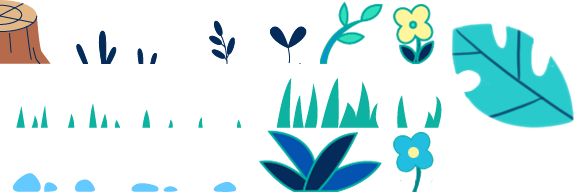
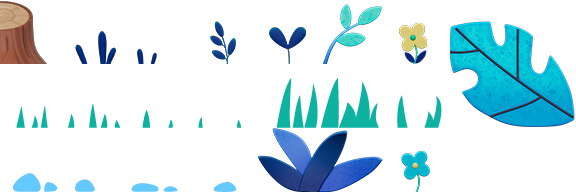
Add files via upload
replaced 2D with 3D assets in the jungle section and added jungle atmosphere tiles

diff --git a/assets/map/tiles/tile_forest_ground_v04.tsx b/assets/map/tiles/tile_forest_ground_v04.tsx
@@ -1,4 +1,93 @@
 <?xml version="1.0" encoding="UTF-8"?>
 <tileset version="1.10" tiledversion="1.10.2" name="tile_forest_ground_v04" tilewidth="64" tileheight="64" tilecount="132" columns="11">
  <image source="tile_forest_ground_v04.png" width="704" height="768"/>
+ <tile id="11" type="Platform">
+  <objectgroup draworder="index" id="2">
+   <object id="1" x="37" y="0" width="27" height="38"/>
+  </objectgroup>
+ </tile>
+ <tile id="12" type="Platform"/>
+ <tile id="13" type="Platform">
+  <objectgroup draworder="index" id="2">
+   <object id="1" x="0" y="0" width="28" height="38"/>
+  </objectgroup>
+ </tile>
+ <tile id="14" type="Platform"/>
+ <tile id="15" type="Platform"/>
+ <tile id="16" type="Platform"/>
+ <tile id="18" type="Slope">
+  <properties>
+   <property name="LeftTop" type="int" value="0"/>
+   <property name="RightTop" type="int" value="52"/>
+  </properties>
+ </tile>
+ <tile id="19" type="Slope">
+  <properties>
+   <property name="LeftTop" type="int" value="52"/>
+   <property name="RightTop" type="int" value="64"/>
+  </properties>
+ </tile>
+ <tile id="20" type="Slope">
+  <properties>
+   <property name="LeftTop" type="int" value="64"/>
+   <property name="RightTop" type="int" value="0"/>
+  </properties>
+ </tile>
+ <tile id="33" type="Platform"/>
+ <tile id="34" type="Platform"/>
+ <tile id="35" type="Platform"/>
+ <tile id="36" type="Platform"/>
+ <tile id="37" type="Platform"/>
+ <tile id="38" type="Platform"/>
+ <tile id="41" type="Slope">
+  <properties>
+   <property name="LeftTop" type="int" value="0"/>
+   <property name="RightTop" type="int" value="52"/>
+  </properties>
+ </tile>
+ <tile id="42" type="Slope">
+  <properties>
+   <property name="LeftTop" type="int" value="52"/>
+   <property name="RightTop" type="int" value="64"/>
+  </properties>
+ </tile>
+ <tile id="43" type="Platform"/>
+ <tile id="51" type="Slope">
+  <properties>
+   <property name="LeftTop" type="int" value="0"/>
+   <property name="RightTop" type="int" value="64"/>
+  </properties>
+ </tile>
+ <tile id="74" type="Platform"/>
+ <tile id="75" type="Platform">
+  <objectgroup draworder="index" id="2">
+   <object id="1" x="0" y="0" width="35" height="61"/>
+  </objectgroup>
+ </tile>
+ <tile id="81" type="Platform"/>
+ <tile id="86" type="Hazard">
+  <objectgroup draworder="index" id="2">
+   <object id="1" x="0" y="17" width="64" height="47"/>
+  </objectgroup>
+ </tile>
+ <tile id="87" type="Hazard">
+  <objectgroup draworder="index" id="2">
+   <object id="1" x="0" y="17" width="64" height="47"/>
+  </objectgroup>
+ </tile>
+ <tile id="110" type="Platform"/>
+ <tile id="111" type="Platform"/>
+ <tile id="113" type="Platform"/>
+ <tile id="114" type="Platform"/>
+ <tile id="115" type="Platform"/>
+ <tile id="117" type="Platform">
+  <objectgroup draworder="index" id="2">
+   <object id="1" x="5" y="0" width="59" height="46"/>
+  </objectgroup>
+ </tile>
+ <tile id="118" type="Platform">
+  <objectgroup draworder="index" id="2">
+   <object id="1" x="0" y="0" width="61" height="46"/>
+  </objectgroup>
+ </tile>
 </tileset>

diff --git a/assets/map/tiles/tile_atmos_forest_1.tsx b/assets/map/tiles/tile_atmos_forest_1.tsx
@@ -1,0 +1,4 @@
+<?xml version="1.0" encoding="UTF-8"?>
+<tileset version="1.10" tiledversion="1.10.2" name="tile_atmos_forest_1" tilewidth="64" tileheight="64" tilecount="24" columns="1">
+ <image source="tile_atmos_forest_1.png" width="64" height="1536"/>
+</tileset>

diff --git a/assets/map/tiles/tile_atmos_forest_2.tsx b/assets/map/tiles/tile_atmos_forest_2.tsx
@@ -1,0 +1,4 @@
+<?xml version="1.0" encoding="UTF-8"?>
+<tileset version="1.10" tiledversion="1.10.2" name="tile_atmos_forest_2" tilewidth="64" tileheight="64" tilecount="24" columns="1">
+ <image source="tile_atmos_forest_2.png" width="64" height="1536"/>
+</tileset>

diff --git a/assets/map/tiles/tile_atmos_forest_3.tsx b/assets/map/tiles/tile_atmos_forest_3.tsx
@@ -1,0 +1,4 @@
+<?xml version="1.0" encoding="UTF-8"?>
+<tileset version="1.10" tiledversion="1.10.2" name="tile_atmos_forest_3" tilewidth="64" tileheight="64" tilecount="24" columns="1">
+ <image source="tile_atmos_forest_3.png" width="64" height="1536"/>
+</tileset>
